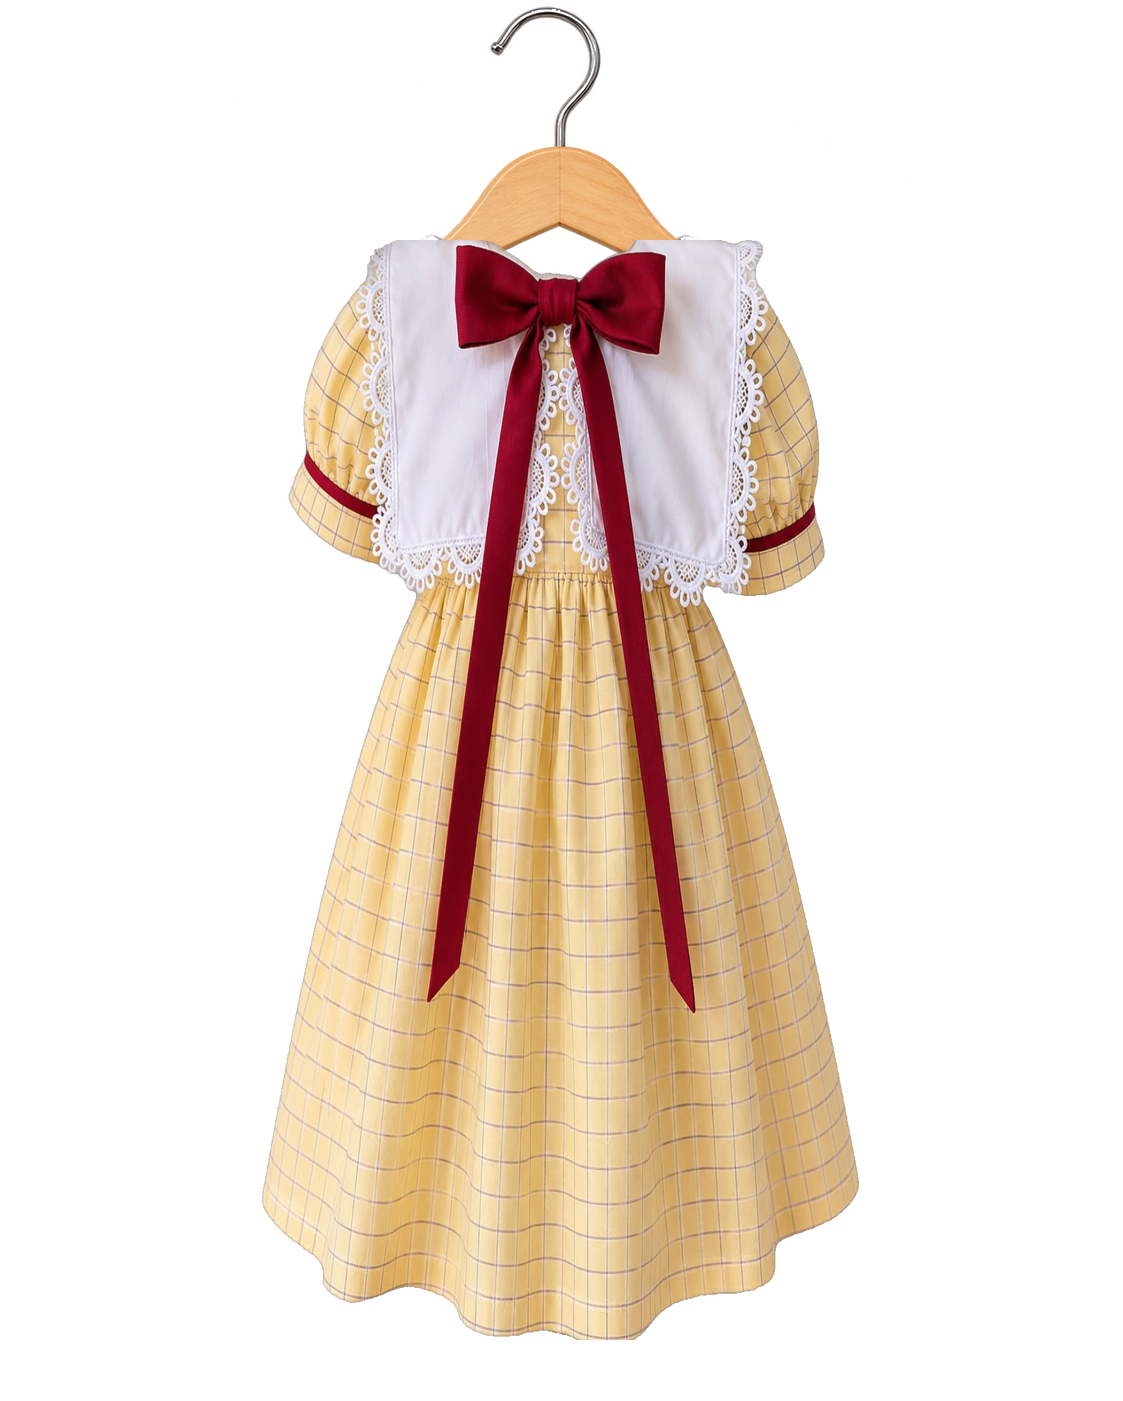
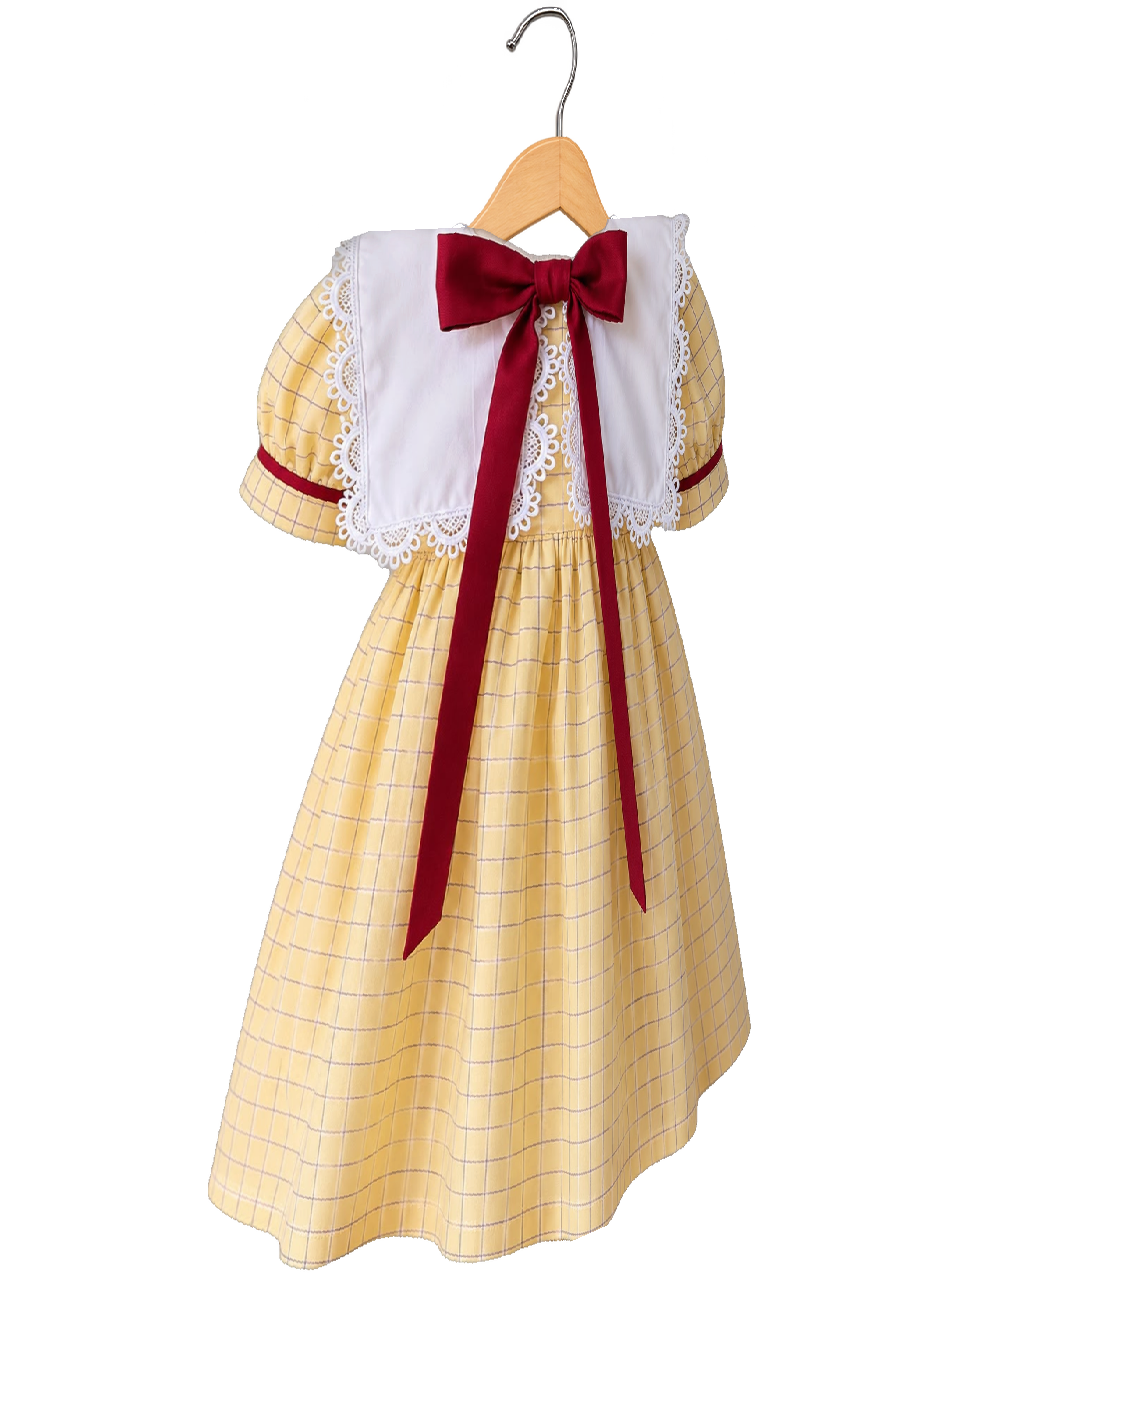
Vira o Vestido Pão de Mel de lado no cabideiro, como os demais
Claude-Session: https://claude.ai/code/session_01JWzVUbXx1DSd7PA21M5h8Z

Changed region(s): [[0.187, 0.0, 0.7792, 0.9822]]

diff --git a/encaixe-cabides.js b/encaixe-cabides.js
@@ -1,4 +1,4 @@
-window.BIBILICA_HOOKS={"assets/recortes/vestido-pao-de-mel.png": {"woodY": 145, "woodX": 560.1}, "assets/laterais/vestido-pao-de-mel.png": {"woodY": 145, "woodX": 560.1}, "assets/laterais/vestido-nuvem-verde.png": {"anchor": 33.8, "cut": 77.2, "x": 537.0, "woodY": 148, "woodX": 540.6}, "assets/recortes/vestido-nuvem-verde.png": {"anchor": 50.2, "cut": 125.8, "x": 545.0, "woodY": 145, "woodX": 560.1}, "assets/laterais/vestido-abelhinha.png": {"anchor": 33.6, "cut": 74.9, "x": 520.5, "woodY": 218, "woodX": 535.26}, "assets/laterais/vestido-algodao-doce.png": {"anchor": 44.2, "cut": 91.8, "x": 529.0, "woodY": 151, "woodX": 517.6}, "assets/laterais/vestido-botao-de-rosa.png": {"anchor": 43.6, "cut": 91.9, "x": 534.5, "woodY": 161, "woodX": 540.5}, "assets/laterais/vestido-campinho-azul.png": {"anchor": 40.4, "cut": 90.1, "x": 555.5, "woodY": 151, "woodX": 565.3}, "assets/laterais/vestido-campinho.png": {"anchor": 41.8, "cut": 88.7, "x": 559.5, "woodY": 160, "woodX": 566.3}, "assets/laterais/vestido-cerejeira.png": {"anchor": 35.6, "cut": 76.9, "x": 543.5, "woodY": 172, "woodX": 531.39}, "assets/laterais/vestido-cerejinha.png": {"anchor": 39.2, "cut": 90.3, "x": 505.5, "woodY": 149, "woodX": 514.9}, "assets/laterais/vestido-guirlanda.png": {"anchor": 28.2, "cut": 65.3, "x": 555.5, "woodY": 120, "woodX": 560.3}, "assets/laterais/vestido-jardinzinho.png": {"anchor": 31.8, "cut": 68.2, "x": 561.0, "woodY": 116, "woodX": 565.8}, "assets/laterais/vestido-laco-de-fita.png": {"anchor": 29.4, "cut": 65.1, "x": 555.5, "woodY": 102, "woodX": 561.7}, "assets/laterais/vestido-marujinha.png": {"anchor": 41.2, "cut": 92.3, "x": 535.5, "woodY": 146, "woodX": 535.7}, "assets/laterais/vestido-nuvem.png": {"anchor": 33.8, "cut": 77.2, "x": 537.0, "woodY": 148, "woodX": 540.6}, "assets/laterais/vestido-raminho.png": {"anchor": 35.8, "cut": 79.2, "x": 544.0, "woodY": 123, "woodX": 553.2}, "assets/recortes/vestido-abelhinha.png": {"anchor": 42.0, "cut": 101.5, "x": 648.5, "woodY": 146, "woodX": 654.2}, "assets/recortes/vestido-algodao-doce.png": {"anchor": 26.2, "cut": 59.8, "x": 636.0, "woodY": 144, "woodX": 633.6}, "assets/recortes/vestido-botao-de-rosa.png": {"anchor": 58.0, "cut": 131.5, "x": 525.5, "woodY": 165, "woodX": 536.2}, "assets/recortes/vestido-campinho-azul.png": {"anchor": 53.6, "cut": 126.4, "x": 546.0, "woodY": 147, "woodX": 559.6}, "assets/recortes/vestido-campinho.png": {"anchor": 56.6, "cut": 139.9, "x": 555.0, "woodY": 159, "woodX": 560.4}, "assets/recortes/vestido-cerejeira.png": {"anchor": 38.2, "cut": 89.3, "x": 539.0, "woodY": 140, "woodX": 542.1}, "assets/recortes/vestido-cerejinha.png": {"anchor": 43.6, "cut": 102.4, "x": 618.0, "woodY": 123, "woodX": 627.6}, "assets/recortes/vestido-guirlanda.png": {"anchor": 39.4, "cut": 99.6, "x": 556.0, "woodY": 116, "woodX": 560.6}, "assets/recortes/vestido-jardinzinho.png": {"anchor": 40.6, "cut": 95.9, "x": 555.5, "woodY": 110, "woodX": 562.3}, "assets/recortes/vestido-laco-de-fita.png": {"anchor": 41.4, "cut": 98.1, "x": 550.5, "woodY": 107, "woodX": 559.1}, "assets/recortes/vestido-marujinha.png": {"anchor": 52.6, "cut": 118.4, "x": 540.0, "woodY": 171, "woodX": 536.5}, "assets/recortes/vestido-nuvem.png": {"anchor": 50.2, "cut": 125.8, "x": 545.0, "woodY": 145, "woodX": 560.1}, "assets/recortes/vestido-raminho.png": {"anchor": 44.6, "cut": 110.4, "x": 535.0, "woodY": 115, "woodX": 546.6}, "assets/recortes/vestido-moranguinho-azul.png": {"woodY": 149, "woodX": 559.3}, "assets/laterais/vestido-moranguinho-azul.png": {"woodY": 147, "woodX": 573.9}, "assets/laterais/vestido-moranguinho-azul-direita.png": {"woodY": 145, "woodX": 555.6}};
+window.BIBILICA_HOOKS={"assets/recortes/vestido-pao-de-mel.png": {"woodY": 145, "woodX": 560.1}, "assets/laterais/vestido-pao-de-mel.png": {"woodY": 134, "woodX": 560.1}, "assets/laterais/vestido-nuvem-verde.png": {"anchor": 33.8, "cut": 77.2, "x": 537.0, "woodY": 148, "woodX": 540.6}, "assets/recortes/vestido-nuvem-verde.png": {"anchor": 50.2, "cut": 125.8, "x": 545.0, "woodY": 145, "woodX": 560.1}, "assets/laterais/vestido-abelhinha.png": {"anchor": 33.6, "cut": 74.9, "x": 520.5, "woodY": 218, "woodX": 535.26}, "assets/laterais/vestido-algodao-doce.png": {"anchor": 44.2, "cut": 91.8, "x": 529.0, "woodY": 151, "woodX": 517.6}, "assets/laterais/vestido-botao-de-rosa.png": {"anchor": 43.6, "cut": 91.9, "x": 534.5, "woodY": 161, "woodX": 540.5}, "assets/laterais/vestido-campinho-azul.png": {"anchor": 40.4, "cut": 90.1, "x": 555.5, "woodY": 151, "woodX": 565.3}, "assets/laterais/vestido-campinho.png": {"anchor": 41.8, "cut": 88.7, "x": 559.5, "woodY": 160, "woodX": 566.3}, "assets/laterais/vestido-cerejeira.png": {"anchor": 35.6, "cut": 76.9, "x": 543.5, "woodY": 172, "woodX": 531.39}, "assets/laterais/vestido-cerejinha.png": {"anchor": 39.2, "cut": 90.3, "x": 505.5, "woodY": 149, "woodX": 514.9}, "assets/laterais/vestido-guirlanda.png": {"anchor": 28.2, "cut": 65.3, "x": 555.5, "woodY": 120, "woodX": 560.3}, "assets/laterais/vestido-jardinzinho.png": {"anchor": 31.8, "cut": 68.2, "x": 561.0, "woodY": 116, "woodX": 565.8}, "assets/laterais/vestido-laco-de-fita.png": {"anchor": 29.4, "cut": 65.1, "x": 555.5, "woodY": 102, "woodX": 561.7}, "assets/laterais/vestido-marujinha.png": {"anchor": 41.2, "cut": 92.3, "x": 535.5, "woodY": 146, "woodX": 535.7}, "assets/laterais/vestido-nuvem.png": {"anchor": 33.8, "cut": 77.2, "x": 537.0, "woodY": 148, "woodX": 540.6}, "assets/laterais/vestido-raminho.png": {"anchor": 35.8, "cut": 79.2, "x": 544.0, "woodY": 123, "woodX": 553.2}, "assets/recortes/vestido-abelhinha.png": {"anchor": 42.0, "cut": 101.5, "x": 648.5, "woodY": 146, "woodX": 654.2}, "assets/recortes/vestido-algodao-doce.png": {"anchor": 26.2, "cut": 59.8, "x": 636.0, "woodY": 144, "woodX": 633.6}, "assets/recortes/vestido-botao-de-rosa.png": {"anchor": 58.0, "cut": 131.5, "x": 525.5, "woodY": 165, "woodX": 536.2}, "assets/recortes/vestido-campinho-azul.png": {"anchor": 53.6, "cut": 126.4, "x": 546.0, "woodY": 147, "woodX": 559.6}, "assets/recortes/vestido-campinho.png": {"anchor": 56.6, "cut": 139.9, "x": 555.0, "woodY": 159, "woodX": 560.4}, "assets/recortes/vestido-cerejeira.png": {"anchor": 38.2, "cut": 89.3, "x": 539.0, "woodY": 140, "woodX": 542.1}, "assets/recortes/vestido-cerejinha.png": {"anchor": 43.6, "cut": 102.4, "x": 618.0, "woodY": 123, "woodX": 627.6}, "assets/recortes/vestido-guirlanda.png": {"anchor": 39.4, "cut": 99.6, "x": 556.0, "woodY": 116, "woodX": 560.6}, "assets/recortes/vestido-jardinzinho.png": {"anchor": 40.6, "cut": 95.9, "x": 555.5, "woodY": 110, "woodX": 562.3}, "assets/recortes/vestido-laco-de-fita.png": {"anchor": 41.4, "cut": 98.1, "x": 550.5, "woodY": 107, "woodX": 559.1}, "assets/recortes/vestido-marujinha.png": {"anchor": 52.6, "cut": 118.4, "x": 540.0, "woodY": 171, "woodX": 536.5}, "assets/recortes/vestido-nuvem.png": {"anchor": 50.2, "cut": 125.8, "x": 545.0, "woodY": 145, "woodX": 560.1}, "assets/recortes/vestido-raminho.png": {"anchor": 44.6, "cut": 110.4, "x": 535.0, "woodY": 115, "woodX": 546.6}, "assets/recortes/vestido-moranguinho-azul.png": {"woodY": 149, "woodX": 559.3}, "assets/laterais/vestido-moranguinho-azul.png": {"woodY": 147, "woodX": 573.9}, "assets/laterais/vestido-moranguinho-azul-direita.png": {"woodY": 145, "woodX": 555.6}};
 Object.assign(window.BIBILICA_HOOKS, {
   "assets/laterais/vestido-lavanda-frente.png": {
     "woodY": 6,

diff --git a/index.html b/index.html
@@ -1560,6 +1560,6 @@ document.getElementById("ano").textContent = new Date().getFullYear();
 render();
 </script>
 
-<script src="encaixe-cabides.js?v=20261124-paodemel"></script><script src="loja.js?v=20261124-paodemel"></script><script src="zoom.js?v=20261115-topomobile"></script><script src="favoritos.js?v=20261122-cores"></script>
+<script src="encaixe-cabides.js?v=20261124-paodemel2"></script><script src="loja.js?v=20261124-paodemel"></script><script src="zoom.js?v=20261115-topomobile"></script><script src="favoritos.js?v=20261122-cores"></script>
 </body>
 </html>
